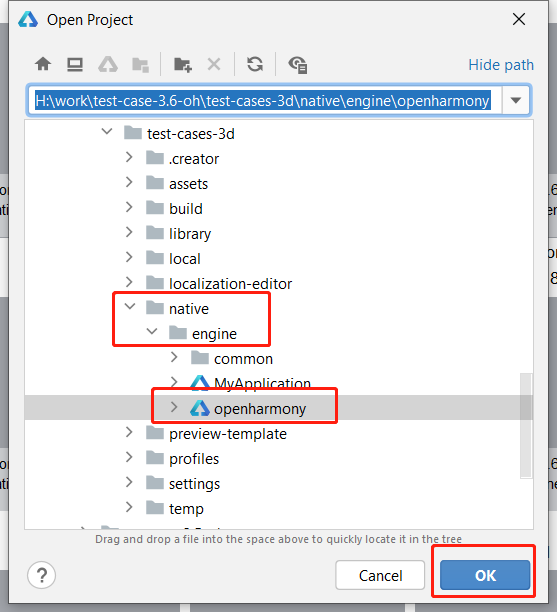
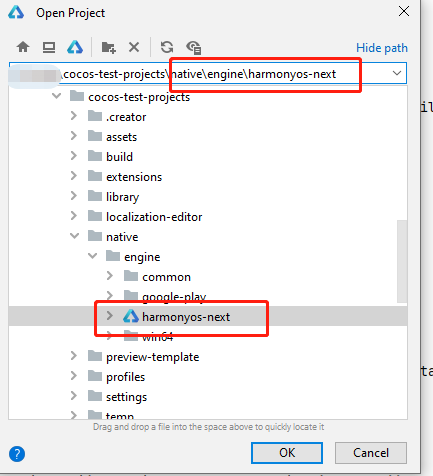
Modify openharmony to Harmonyos Next

Changed region(s): [[0.0, 0.0, 1.0, 1.0]]

diff --git a/versions/3.8/zh/editor/publish/publish-openharmony.md b/versions/3.8/zh/editor/publish/publish-openharmony.md
@@ -113,7 +113,7 @@
 1. 使用[DevEcoStudio](https://developer.harmonyos.com/cn/develop/deveco-studio#download)，打开工程，如下图：
 
     ![](./publish-openharmony/document_image_rId62.png)
-2. 找到工程目录（native/engine/openharmony）并点击打开，如下图（下图是以[cocos-test-projects](https://github.com/cocos/cocos-test-projects)为例）：
+2. 找到工程目录（native/engine/harmonyos-next）并点击打开，如下图（下图是以[cocos-test-projects](https://github.com/cocos/cocos-test-projects)为例）：
 
     ![](./publish-openharmony/document_image_rId64.png)
 
